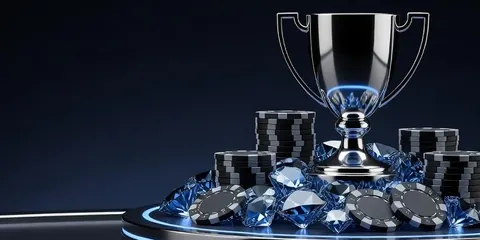
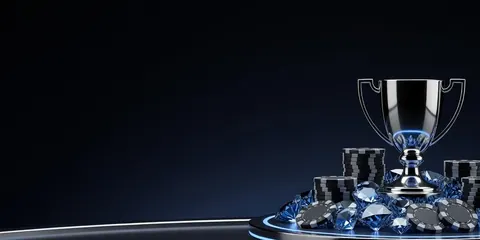
fix(marketplace): Smarter Rewards phone header keeps the whole trophy clear of the title
Claude-Session: https://claude.ai/code/session_01Gw7aDsuPeZQn7gp1ChwNuk

diff --git a/scripts/art/derive-store-headers.py b/scripts/art/derive-store-headers.py
@@ -31,11 +31,16 @@ SEAL_KEEP = 0.82
 # Seals whose subject is small in the master get a tighter, re-centred crop:
 # name -> (centre x, centre y, kept side as a fraction of the master).
 SEAL_FOCUS = {
-    'store-diamonds': (0.47, 0.42, 0.28),
+    'store-diamonds': (0.47, 0.42, 0.31),
 }
 # Seals whose master puts a bright pedestal under the subject: fade the lower
 # part into the header navy (#0b1c2c) so the ring frames the subject alone.
 # name -> (fade start as a fraction of height, strength at the bottom 0..1).
+# Seals painted darker than the rest of the set: lift them so they still read
+# on the small package-card seals. name -> (brightness, colour).
+SEAL_LIFT = {
+    'store-diamonds': (1.45, 1.2),
+}
 SEAL_FLOOR_FADE = {
     'store-diamonds': (0.5, 0.95),
 }
@@ -46,7 +51,7 @@ SEAL_FLOOR_FADE = {
 SUBJECT = {
     'store-diamonds': (0.72, 0.47),
     'store-merch': (0.75, 0.45),
-    'store-rewards': (0.72, 0.50),
+    'store-rewards': (0.72, 0.40),
     'store-club-shop': (0.72, 0.45),
     'store-cart': (0.69, 0.55),
     'store-orders': (0.70, 0.55),
@@ -56,6 +61,16 @@ SUBJECT = {
 # Phone frame: 2:1, 55% of the master's width, subject at 74% across so it
 # clears the title on the left of a 393px header.
 PHONE_WIDTH = 0.55
+# Tall subjects get a wider (so taller) frame: the whole subject, smaller,
+# clear of the "?" in the header's top-right corner.
+PHONE_WIDTH_FOR = {
+    'store-rewards': 0.78,
+}
+# Where the subject lands across the phone frame, where a long title needs it
+# further right than PHONE_SUBJECT_X.
+PHONE_SUBJECT_X_FOR = {
+    'store-rewards': 0.86,
+}
 PHONE_SUBJECT_X = 0.74
 
 
@@ -67,6 +82,9 @@ def seal(img, name):
     t = min(max(cy * h - side / 2, 0), h - side)
     out = img.crop((round(l), round(t), round(l + side), round(t + side)))
     out = out.resize((352, 352), Image.LANCZOS)
+    if name in SEAL_LIFT:
+        bright, colour = SEAL_LIFT[name]
+        out = ImageEnhance.Color(ImageEnhance.Brightness(out).enhance(bright)).enhance(colour)
     if name in SEAL_FLOOR_FADE:
         start, strength = SEAL_FLOOR_FADE[name]
         navy = Image.new('RGB', out.size, (11, 28, 44))
@@ -87,8 +105,9 @@ def scene(img):
 def phone_scene(img, name):
     w, h = img.size
     sx, sy = SUBJECT[name]
-    fw, fh = w * PHONE_WIDTH, w * PHONE_WIDTH / 2
-    l = min(max(sx * w - PHONE_SUBJECT_X * fw, 0), w - fw)
+    width = PHONE_WIDTH_FOR.get(name, PHONE_WIDTH)
+    fw, fh = w * width, w * width / 2
+    l = min(max(sx * w - PHONE_SUBJECT_X_FOR.get(name, PHONE_SUBJECT_X) * fw, 0), w - fw)
     t = min(max(sy * h - fh / 2, 0), h - fh)
     out = img.crop((round(l), round(t), round(l + fw), round(t + fh)))
     return out.resize((480, 240), Image.LANCZOS)
